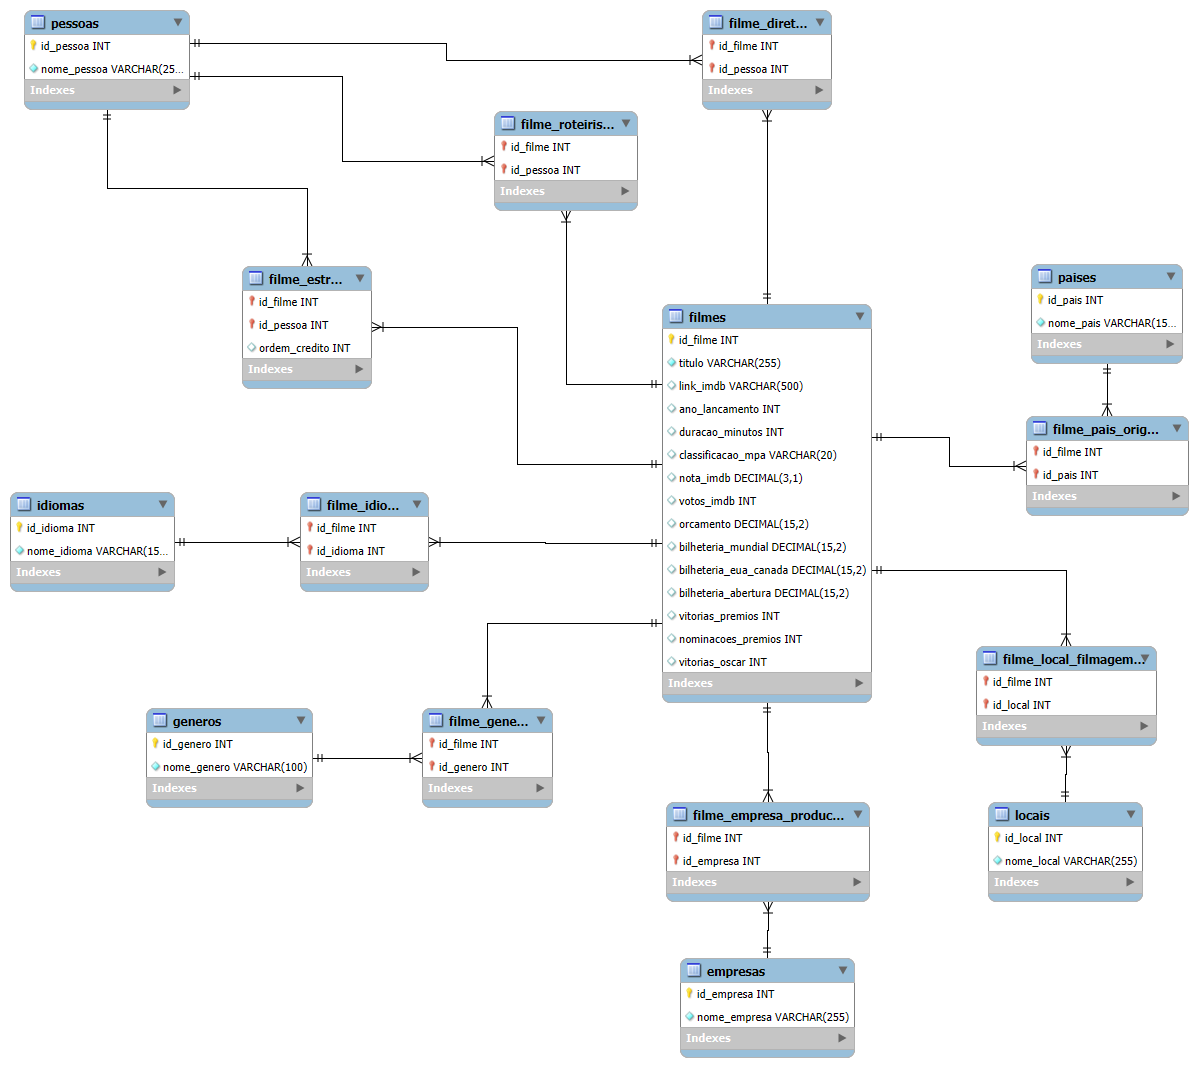
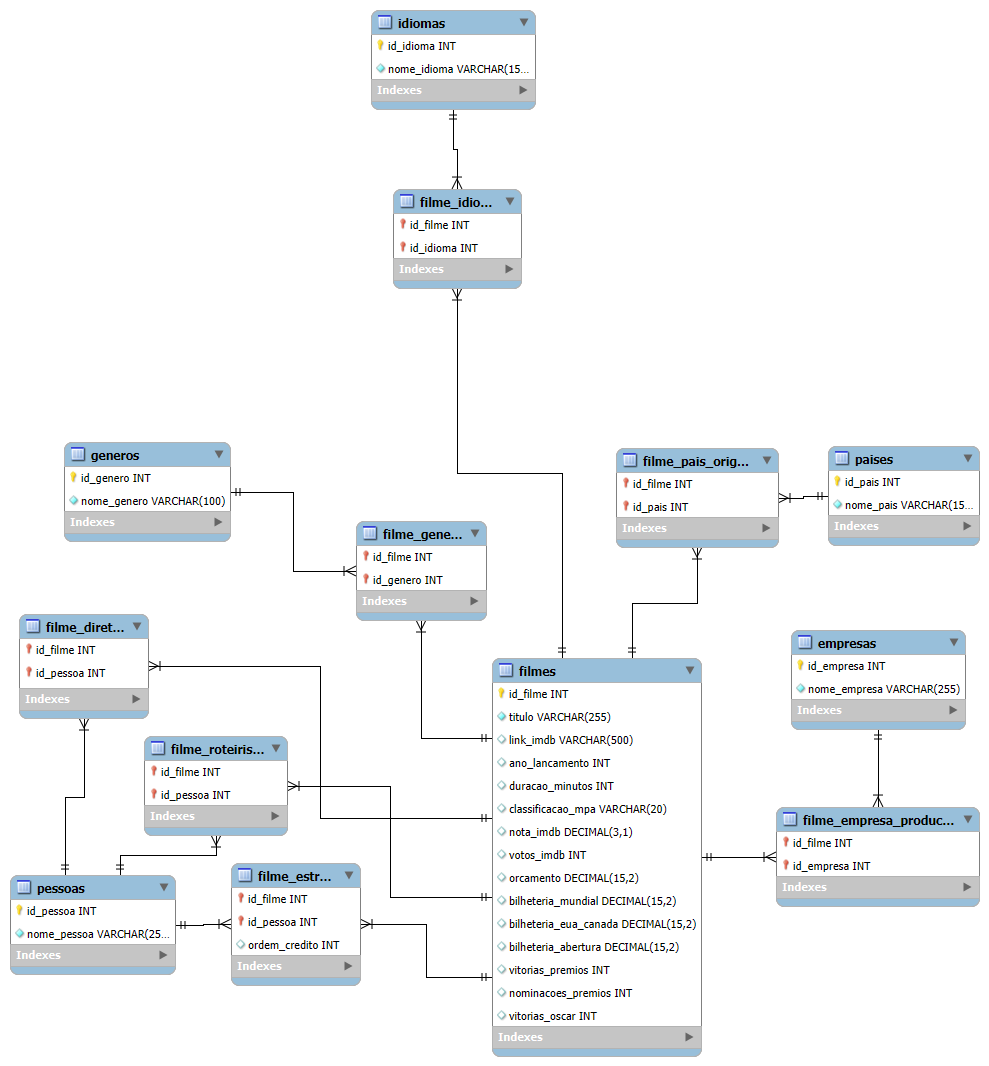
Coisinhas

diff --git a/consulta.py b/consulta.py
@@ -1,0 +1,159 @@
+from sqlalchemy import create_engine, text
+from urllib.parse import quote_plus
+import pandas as pd
+import datetime as _dt
+
+
+user = "root"
+password = "mdrzz.0301"
+password_enc = quote_plus(password)
+host = "localhost"
+port = 3306
+database = "filmes_db"
+
+ano_inicio = 2000
+ano_fim = _dt.datetime.now().year
+filtro_empresa = None
+filtro_pais = None      
+top_n = 20
+
+
+def build_query(filtros: dict):
+        """Monta a consulta pró‑rata entre Empresas × Países com filtros opcionais.
+
+        Filtros suportados: ano_inicio, ano_fim, empresa, pais, limit_n.
+        Retorna (sql, params)
+        """
+        where_base = []
+        params = {}
+
+        if filtros.get("ano_inicio") is not None:
+                where_base.append("b.ano_lancamento >= :ano_inicio")
+                params["ano_inicio"] = int(filtros["ano_inicio"])
+        if filtros.get("ano_fim") is not None:
+                where_base.append("b.ano_lancamento <= :ano_fim")
+                params["ano_fim"] = int(filtros["ano_fim"])
+
+        where_base_sql = ("WHERE " + " AND ".join(where_base)) if where_base else ""
+
+        # Filtros por nome exigem já ter juntado Empresas e Paises; aplicaremos na seleção final
+        having_filters = []
+        if filtros.get("empresa"):
+                having_filters.append("e.nome_empresa = :empresa")
+                params["empresa"] = filtros["empresa"]
+        if filtros.get("pais"):
+                having_filters.append("p.nome_pais = :pais")
+                params["pais"] = filtros["pais"]
+
+        and_clause = ("WHERE " + " AND ".join(having_filters)) if having_filters else ""
+
+        limit_clause = ""
+        if filtros.get("limit_n") is not None:
+                try:
+                        limit_n = int(filtros["limit_n"])
+                        if limit_n > 0:
+                                limit_clause = f"\nLIMIT {limit_n}"
+                except Exception:
+                        pass
+
+        sql = f"""
+WITH
+base AS (
+    SELECT
+        f.id_filme,
+        COALESCE(f.vitorias_premios, 0)   AS wins,
+        COALESCE(f.nominacoes_premios, 0) AS nominations,
+        COALESCE(f.vitorias_oscar, 0)     AS oscars,
+        f.ano_lancamento
+    FROM Filmes f
+),
+emp_count AS (
+    SELECT id_filme, COUNT(DISTINCT id_empresa) AS n_empresas
+    FROM Filme_Empresa_Producao
+    GROUP BY id_filme
+),
+pais_count AS (
+    SELECT id_filme, COUNT(DISTINCT id_pais) AS n_paises
+    FROM Filme_Pais_Origem
+    GROUP BY id_filme
+),
+film_pairs AS (
+    SELECT fe.id_filme, fe.id_empresa, fp.id_pais
+    FROM Filme_Empresa_Producao fe
+    JOIN Filme_Pais_Origem fp
+        ON fp.id_filme = fe.id_filme
+),
+shares AS (
+    SELECT
+        fp.id_filme,
+        fp.id_empresa,
+        fp.id_pais,
+        b.wins,
+        b.nominations,
+        b.oscars,
+        (ec.n_empresas * pc.n_paises) AS denom,
+        b.ano_lancamento
+    FROM film_pairs fp
+    JOIN base b       ON b.id_filme = fp.id_filme
+    JOIN emp_count ec ON ec.id_filme = fp.id_filme
+    JOIN pais_count pc ON pc.id_filme = fp.id_filme
+    {where_base_sql}
+)
+SELECT
+    e.nome_empresa,
+    p.nome_pais,
+    COUNT(DISTINCT s.id_filme) AS filmes_compartilhados,
+    ROUND(SUM(CASE WHEN s.denom > 0 THEN s.wins        / s.denom ELSE 0 END), 2) AS total_vitorias_prorata,
+    ROUND(SUM(CASE WHEN s.denom > 0 THEN s.nominations / s.denom ELSE 0 END), 2) AS total_nominacoes_prorata,
+    ROUND(SUM(CASE WHEN s.denom > 0 THEN s.oscars      / s.denom ELSE 0 END), 2) AS total_oscars_prorata
+FROM shares s
+JOIN Empresas e ON e.id_empresa = s.id_empresa
+JOIN Paises   p ON p.id_pais    = s.id_pais
+{and_clause}
+GROUP BY e.id_empresa, p.id_pais
+ORDER BY total_oscars_prorata DESC, total_vitorias_prorata DESC, filmes_compartilhados DESC
+{limit_clause};
+"""
+
+        return sql, params
+
+
+def main():
+        # Cria engine do SQLAlchemy
+        engine = create_engine(f"mysql+pymysql://{user}:{password_enc}@{host}:{port}/{database}")
+        print(f"Conectando a {engine}")
+
+        filtros = {
+                "ano_inicio": ano_inicio,
+                "ano_fim": ano_fim,
+                "empresa": filtro_empresa,
+                "pais": filtro_pais,
+                "limit_n": top_n,
+        }
+
+        sql, params = build_query(filtros)
+
+        print("Executando consulta (pode levar alguns segundos)...")
+        try:
+                df = pd.read_sql(text(sql), con=engine, params=params)
+        except Exception as e:
+                print("Erro ao executar consulta:\n", e)
+                print("Verifique se as tabelas e colunas existem com os nomes esperados e se o database está correto.")
+                return
+
+        if df.empty:
+                print("Nenhum resultado retornado para os filtros aplicados.")
+                return
+
+        # Exibe amostra
+        print("\nTop resultados:")
+        print(df.head(min(10, len(df))))
+
+        # Salva CSV
+        out_file = "resultado_empresas_paises_premiacoes.csv"
+        df.to_csv(out_file, index=False, encoding="utf-8")
+        print(f"\nArquivo salvo: {out_file} (linhas: {len(df)})")
+
+
+if __name__ == "__main__":
+        main()
